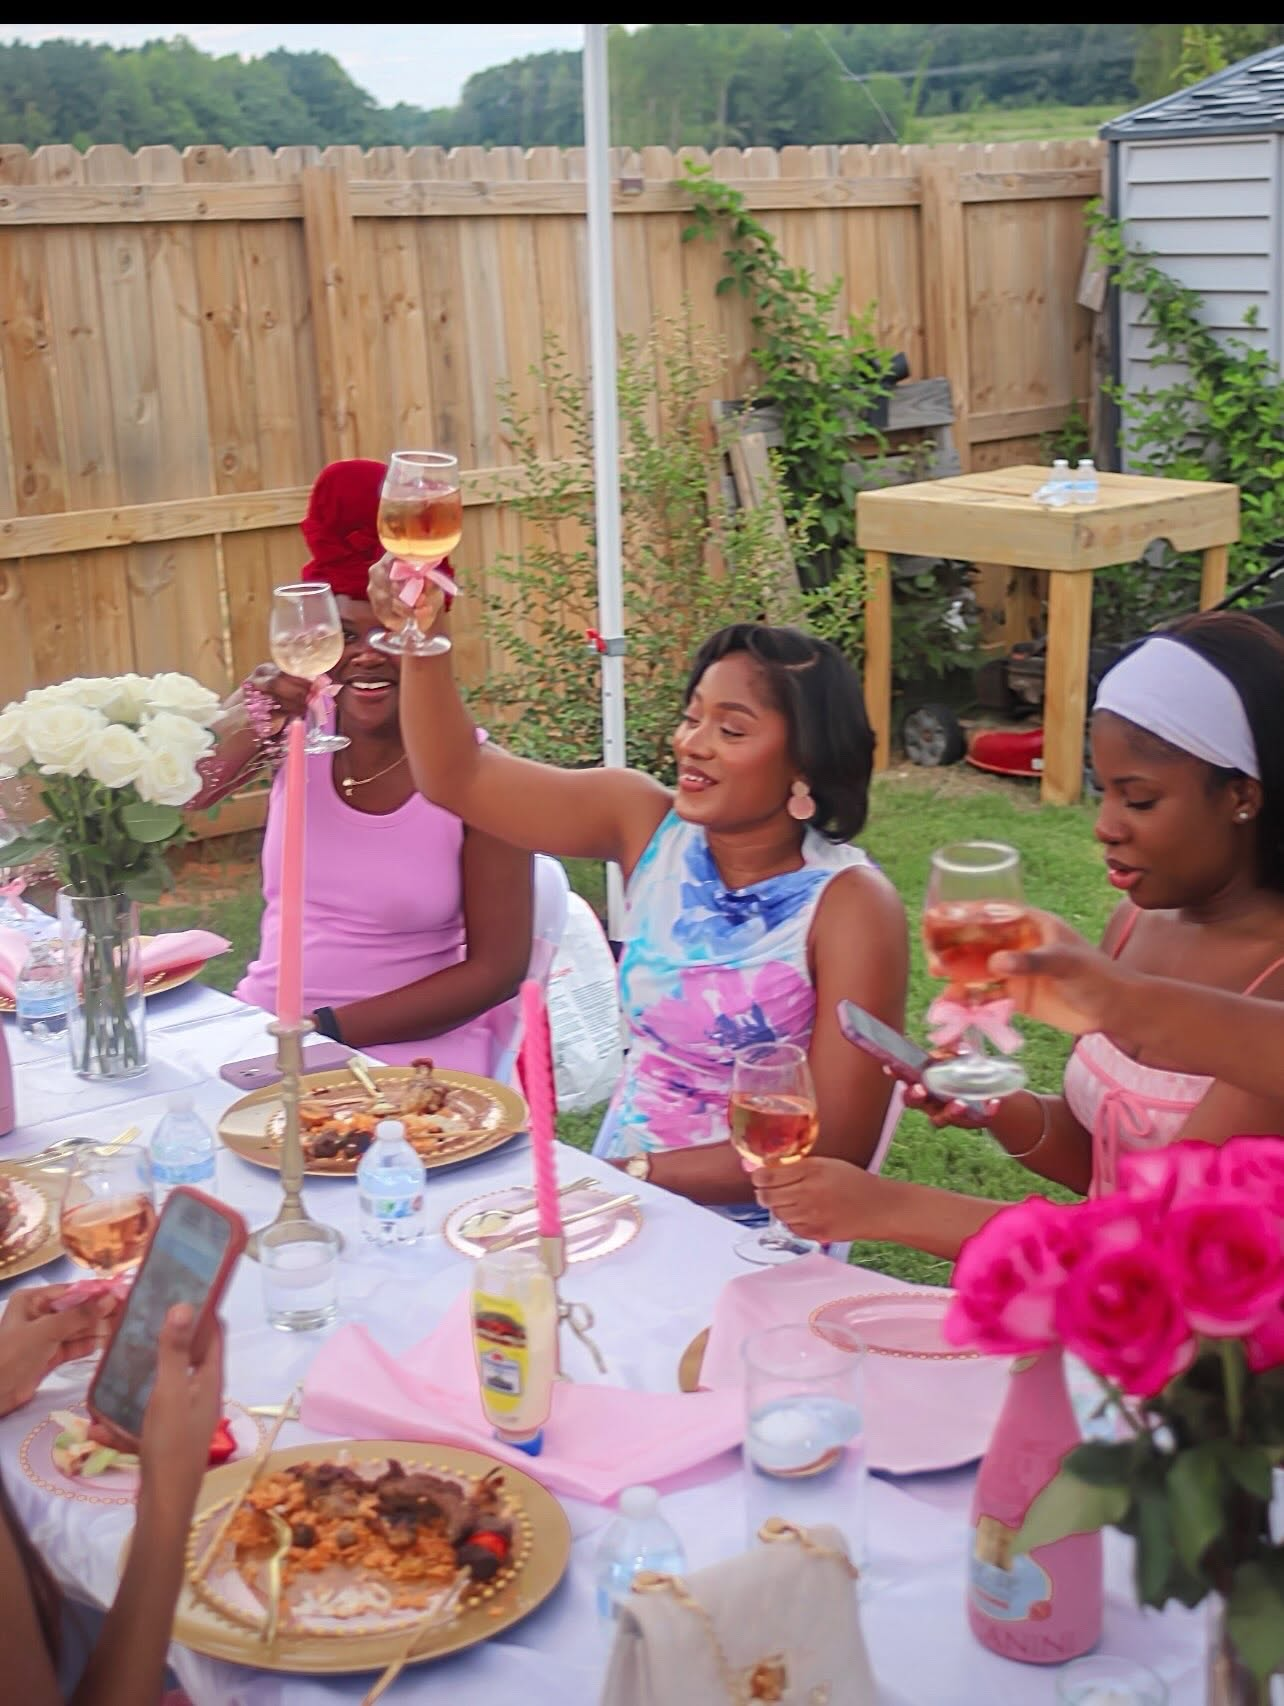
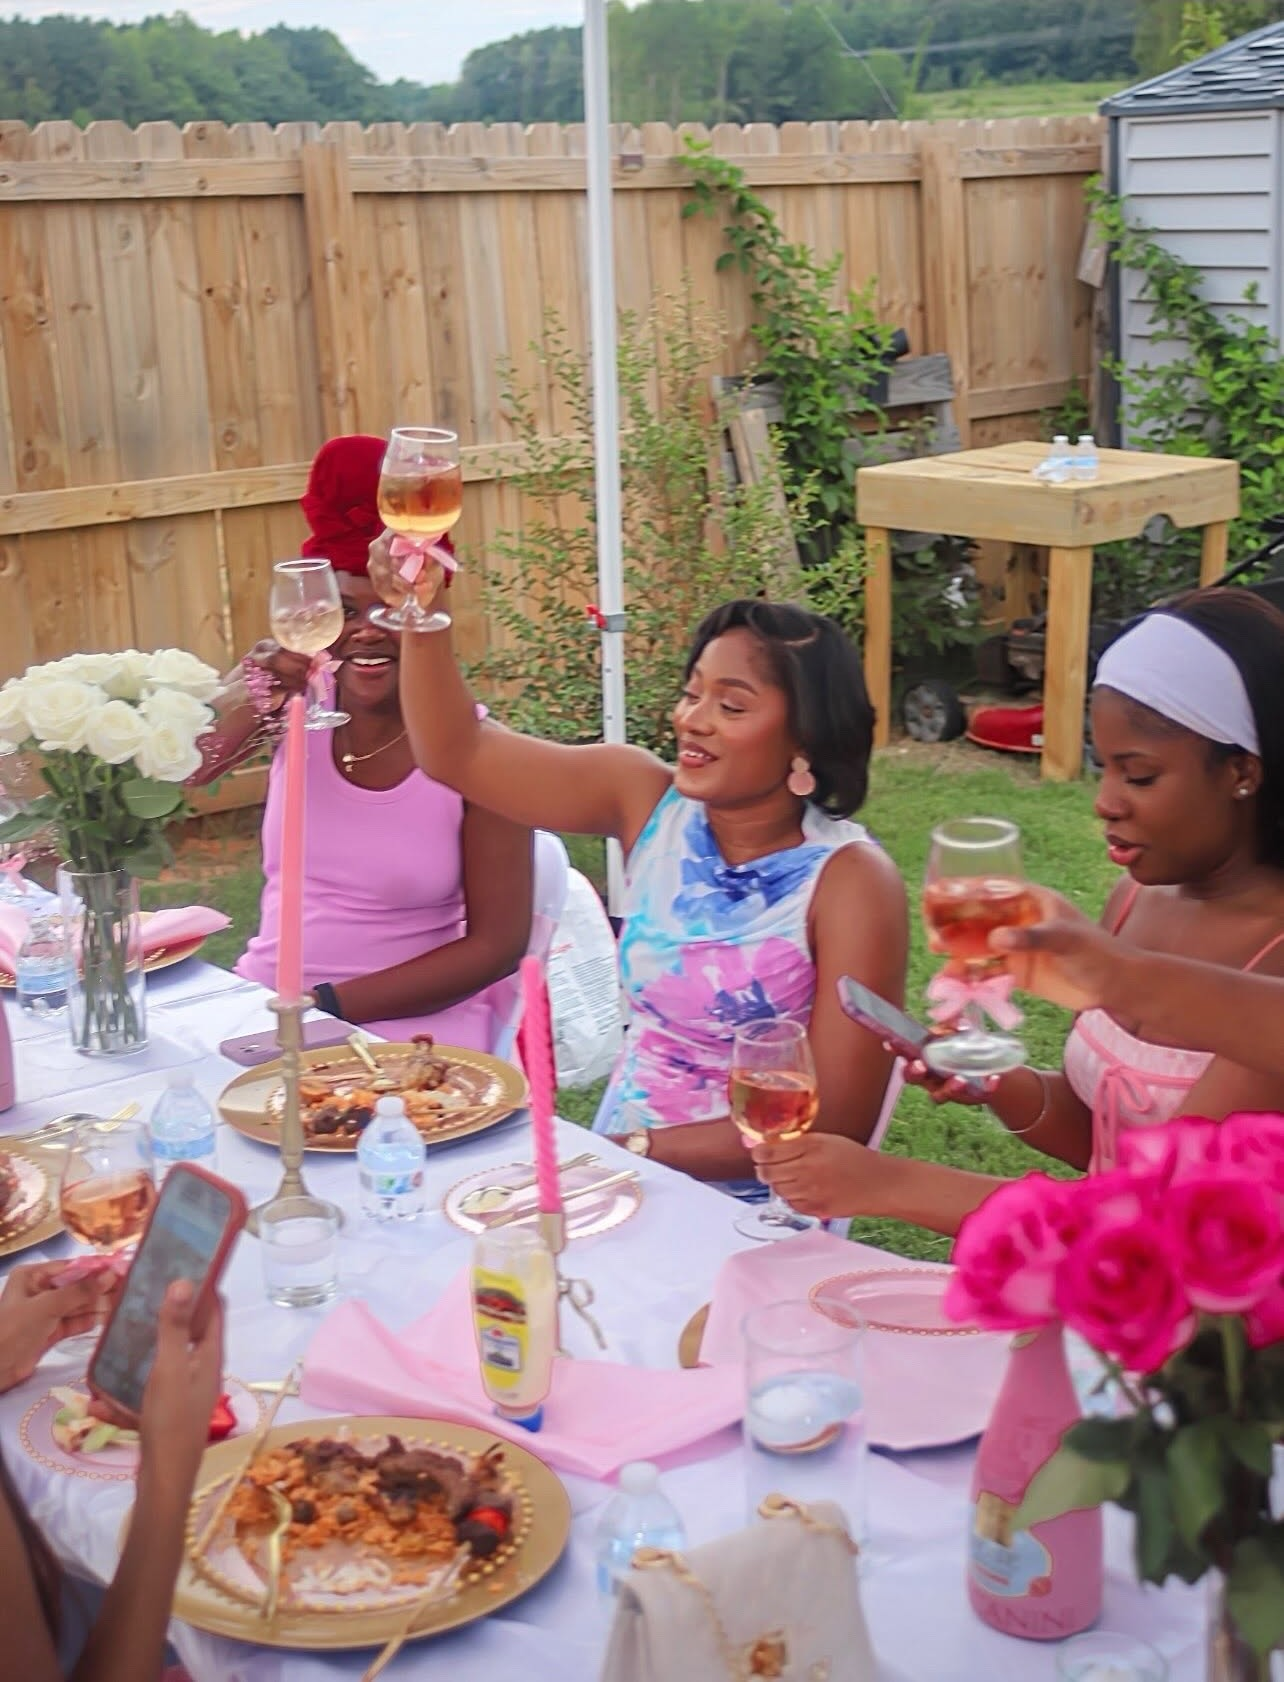
WIP

diff --git a/app/page.tsx b/app/page.tsx
@@ -286,21 +286,29 @@ function FloatingPetals() {
 }
 
 /* ── Old film strip with sliding photos (under the navbar) ───────────────── */
-const BACHELORETTE_PHOTOS = Array.from(
-  { length: 7 },
-  (_, i) => `/images/bachelorette/bachelorette-${i + 1}.jpg`
-);
+// Frame widths are multiples of the 26px sprocket tile so perforations stay
+// continuous; each width matches its photo's aspect ratio to avoid cropping.
+const FRAME_PORTRAIT = "w-[130px] sm:w-[156px]"; // ~3:4
+const FRAME_WIDE = "w-[260px] sm:w-[312px]"; // ~16:10
+const FRAME_MID = "w-[208px] sm:w-[234px]"; // ~5:4
+const FRAME_SQUARE = "w-[156px] sm:w-[182px]"; // ~1:1
 
 // Bachelorette photos lead the reel, followed by the couple's photos
 const FILM_PHOTOS = [
-  ...BACHELORETTE_PHOTOS,
-  "/images/couple-hero-2.jpg",
-  "/images/story-1.jpg",
-  "/images/couple-hero-3.jpg",
-  "/images/story-2.jpg",
-  "/images/couple-rsvp.jpg",
-  "/images/story-3.jpg",
-  "/images/story-4.jpg",
+  { src: "/images/bachelorette/bachelorette-1.jpg", frame: FRAME_PORTRAIT },
+  { src: "/images/bachelorette/bachelorette-2.jpg", frame: FRAME_WIDE },
+  { src: "/images/bachelorette/bachelorette-3.jpg", frame: FRAME_PORTRAIT },
+  { src: "/images/bachelorette/bachelorette-4.jpg", frame: FRAME_PORTRAIT },
+  { src: "/images/bachelorette/bachelorette-5.jpg", frame: FRAME_PORTRAIT },
+  { src: "/images/bachelorette/bachelorette-6.jpg", frame: FRAME_PORTRAIT },
+  { src: "/images/bachelorette/bachelorette-7.jpg", frame: FRAME_PORTRAIT },
+  { src: "/images/couple-hero-2.jpg", frame: FRAME_PORTRAIT },
+  { src: "/images/story-1.jpg", frame: FRAME_PORTRAIT },
+  { src: "/images/couple-hero-3.jpg", frame: FRAME_PORTRAIT },
+  { src: "/images/story-2.jpg", frame: FRAME_MID },
+  { src: "/images/couple-rsvp.jpg", frame: FRAME_PORTRAIT },
+  { src: "/images/story-3.jpg", frame: FRAME_SQUARE },
+  { src: "/images/story-4.jpg", frame: FRAME_PORTRAIT },
 ];
 
 // Rounded sprocket hole, tiled horizontally along the strip edges
@@ -317,9 +325,8 @@ function FilmStrip() {
   // Two copies of the set → sliding to -50% loops seamlessly (pauses on hover)
   const frames = [...FILM_PHOTOS, ...FILM_PHOTOS];
   return (
-    <div className="relative z-[2] overflow-hidden py-8 sm:py-12" aria-hidden="true">
-      {/* Oblique strip — oversized so it bleeds off both edges */}
-      <div className="relative w-[130%] -ml-[15%] rotate-[-2.5deg]">
+    <div className="relative z-[2] overflow-hidden py-4 sm:py-6" aria-hidden="true">
+      <div className="relative">
         {/* The film itself is golden — holes are punched through to the page */}
         <div
           className="film-strip relative overflow-hidden shadow-[0_22px_48px_-14px_rgba(60,42,4,0.55)] ring-1 ring-[#8A6A06]/40"
@@ -329,12 +336,12 @@ function FilmStrip() {
           }}
         >
           <div className="film-track flex w-max">
-            {frames.map((src, i) => {
+            {frames.map((photo, i) => {
               const n = (i % FILM_PHOTOS.length) + 1;
               return (
                 <div
                   key={i}
-                  className="relative w-[130px] sm:w-[156px] shrink-0 py-[19px]"
+                  className={`relative ${photo.frame} shrink-0 py-[19px]`}
                   style={{
                     backgroundImage: `${SPROCKET_TILE}, ${SPROCKET_TILE}`,
                     backgroundPosition: "left top 4px, left bottom 4px",
@@ -342,19 +349,14 @@ function FilmStrip() {
                   }}
                 >
                   <div className="relative px-[3px]">
-                    {/* Portrait frame + object-contain → the photo is always fully visible */}
+                    {/* Frame width matches the photo's aspect, so the crop stays minimal */}
                     <img
-                      src={src}
+                      src={photo.src}
                       alt=""
                       loading="lazy"
                       draggable={false}
-                      className="h-40 sm:h-48 w-full rounded-[2px] bg-[#0C0A09] object-contain"
+                      className="h-40 sm:h-48 w-full rounded-[2px] object-cover"
                       style={{ filter: "sepia(0.22) contrast(1.07) saturate(0.9)" }}
-                    />
-                    {/* Soft vignette on each frame */}
-                    <div
-                      className="absolute inset-y-0 inset-x-[3px] rounded-[2px]"
-                      style={{ boxShadow: "inset 0 0 28px rgba(0,0,0,0.42)" }}
                     />
                   </div>
                   {/* Typewriter stamps, like a developed negative */}
